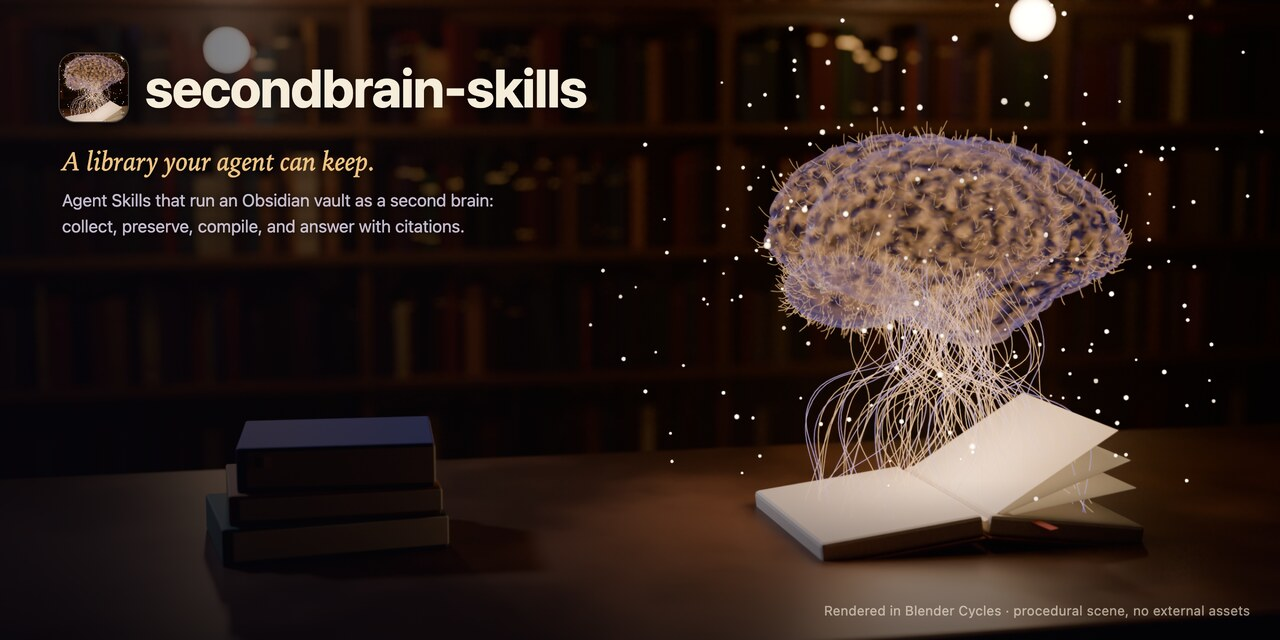
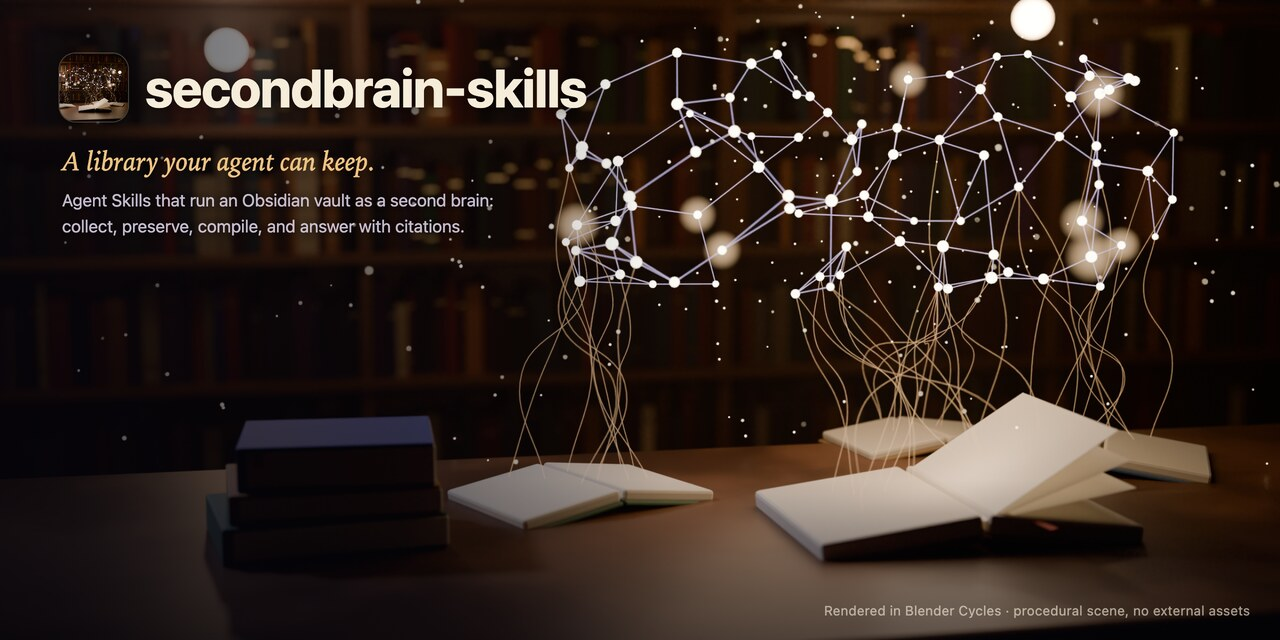
art: replace the brain with a constellation fed by several open books
The splash, social preview and icon now show threads of light rising from
four open books into a constellation of stars linked by thin lines, instead
of an anatomical brain. Unused brain helpers are removed from
scripts/art/library.py; ledger descriptions and README alt text follow.

Checked: python3 scripts/validate.py and claude plugin validate . --strict
pass; renders inspected visually.

diff --git a/scripts/art/library.py b/scripts/art/library.py
@@ -1,5 +1,7 @@
 """Procedural Blender scenes for secondbrain-skills art. No external assets.
 
+The splash: threads of light rise from several open books into a constellation of linked stars.
+
 Run:  blender -b -P scripts/art/library.py -- <scene> <out.png> [samples] [resolution %]
 Scenes: splash (README banner, 2400x1200), icon (1024 square); hero, icon_book, drop, archive,
 catalogue and reading are earlier studies kept for reuse.
@@ -577,128 +579,7 @@ def scene_reading():
 
 
 
-# ---------------------------------------------------------------- splash: a brain of light rising from a book
-def brain_shell(center, size, rnd):
-    """Brain in side profile: long axis along world x, hemispheres offset in y, plus a cerebellum."""
-    objs = []
-    tex = bpy.data.textures.new("gyri", "MARBLE")
-    tex.marble_type = "SHARPER"
-    tex.noise_scale = 0.03
-    tex.turbulence = 9.0
-    tex.noise_depth = 4
-    L, W, H = size.x / 2, size.y / 4, size.z / 2
-
-    def shape(v):
-        u = v.x  # -1 back .. +1 front
-        z = v.z
-        if z < 0:
-            z *= 0.55
-            if -0.35 < u < 0.55:  # temporal lobe
-                z -= 0.32 * math.cos((u - 0.1) / 0.45 * math.pi / 2) * (-v.z)
-        z *= 1.0 - 0.12 * max(0.0, u)
-        z += 0.10 * max(0.0, -u) * (1 + v.z) * 0.5
-        y = v.y * (1.0 - 0.10 * abs(u))
-        return Vector((u * L, y * W, z * H))
-
-    for side in (-1, 1):
-        bm = bmesh.new()
-        bmesh.ops.create_icosphere(bm, subdivisions=6, radius=1.0)
-        for v in bm.verts:
-            v.co = shape(v.co)
-        me = bpy.data.meshes.new(f"hemisphere{side}")
-        bm.to_mesh(me)
-        bm.free()
-        o = link_obj(f"hemisphere{side}", me)
-        o.location = (center.x, center.y + side * W * 1.04, center.z)
-        d = o.modifiers.new("gyri", "DISPLACE")
-        d.texture = tex
-        d.strength = size.x * 0.03
-        d.mid_level = 0.5
-        for poly in me.polygons:
-            poly.use_smooth = True
-        objs.append(o)
-    bm = bmesh.new()
-    bmesh.ops.create_icosphere(bm, subdivisions=5, radius=1.0)
-    for v in bm.verts:
-        v.co = Vector((v.co.x * L * 0.33, v.co.y * W * 1.7, v.co.z * H * 0.32))
-    me = bpy.data.meshes.new("cerebellum")
-    bm.to_mesh(me)
-    bm.free()
-    cb = link_obj("cerebellum", me)
-    cb.location = (center.x - L * 0.62, center.y, center.z - H * 0.42)
-    tex2 = bpy.data.textures.new("folia", "WOOD")
-    tex2.wood_type = "BANDNOISE"
-    tex2.noise_scale = 0.02
-    d = cb.modifiers.new("folia", "DISPLACE")
-    d.texture = tex2
-    d.strength = size.x * 0.01
-    for poly in me.polygons:
-        poly.use_smooth = True
-    objs.append(cb)
-    return objs
-
-
-def shell_material():
-    m = bpy.data.materials.new("shell")
-    m.use_nodes = True
-    nt = m.node_tree
-    out = nt.nodes["Material Output"]
-    p = nt.nodes["Principled BSDF"]
-    p.inputs["Base Color"].default_value = (0.03, 0.02, 0.035, 1)
-    p.inputs["Coat Weight"].default_value = 0.6
-    p.inputs["Roughness"].default_value = 0.35
-    geo = nt.nodes.new("ShaderNodeNewGeometry")
-    ramp = nt.nodes.new("ShaderNodeValToRGB")
-    ramp.color_ramp.elements[0].position = 0.50
-    ramp.color_ramp.elements[0].color = (0, 0, 0, 1)
-    ramp.color_ramp.elements[1].position = 0.56
-    ramp.color_ramp.elements[1].color = (1.0, 0.45, 0.12, 1)
-    nt.links.new(geo.outputs["Pointiness"], ramp.inputs["Fac"])
-    nt.links.new(ramp.outputs["Color"], p.inputs["Emission Color"])
-    p.inputs["Emission Strength"].default_value = 3.2
-    fres = nt.nodes.new("ShaderNodeLayerWeight")
-    fres.inputs["Blend"].default_value = 0.35
-    rim = nt.nodes.new("ShaderNodeEmission")
-    rim.inputs["Color"].default_value = (0.42, 0.30, 1.0, 1)
-    rim.inputs["Strength"].default_value = 0.8
-    mixr = nt.nodes.new("ShaderNodeMixShader")
-    nt.links.new(fres.outputs["Facing"], mixr.inputs[0])
-    nt.links.new(p.outputs[0], mixr.inputs[1])
-    nt.links.new(rim.outputs[0], mixr.inputs[2])
-    tr = nt.nodes.new("ShaderNodeBsdfTransparent")
-    mixa = nt.nodes.new("ShaderNodeMixShader")
-    mixa.inputs[0].default_value = 0.3
-    nt.links.new(tr.outputs[0], mixa.inputs[1])
-    nt.links.new(mixr.outputs[0], mixa.inputs[2])
-    nt.links.new(mixa.outputs[0], out.inputs["Surface"])
-    return m
-
-
-def filament_hair(obj, material, count=2600, length=0.05):
-    mod = obj.modifiers.new("filaments", "PARTICLE_SYSTEM")
-    ps = mod.particle_system.settings
-    ps.type = "HAIR"
-    ps.count = count
-    ps.hair_length = length
-    ps.use_advanced_hair = True
-    ps.normal_factor = 1.0
-    ps.factor_random = 0.6
-    ps.child_type = "INTERPOLATED"
-    ps.child_percent = 4
-    ps.rendered_child_count = 12
-    ps.child_length = 0.9
-    ps.kink = "WAVE"
-    ps.kink_amplitude = length * 0.25
-    ps.kink_frequency = 3.0
-    ps.roughness_endpoint = length * 0.3
-    ps.root_radius = 1.0
-    ps.tip_radius = 0.0
-    ps.radius_scale = 0.00035
-    obj.data.materials.append(material)
-    ps.material_slot = material.name
-    return ps
-
-
+# ---------------------------------------------------------------- splash: open books feeding a constellation of linked stars
 def splash(res=(2400, 1200), close=False):
     sc = reset()
     sc.render.resolution_x, sc.render.resolution_y = res
@@ -752,60 +633,113 @@ def splash(res=(2400, 1200), close=False):
         hw = 0.112
         loc = (bx + hw * math.cos(ry), by, top + 0.04 - hw * math.sin(ry))
         paper_sheet(f"lift{k}", loc, (0, ry, 0), (0.224, 0.31), lift)
-    # brain of light above the book
-    c = Vector((bx, by + 0.02, top + 0.40))
-    size = Vector((0.46, 0.34, 0.30))
-    shells = brain_shell(c, size, rnd)
-    sm = shell_material()
-    fil = mat("filament", (1, 0.7, 0.4), emit=(1.0, 0.55, 0.22), strength=2.2)
-    fpaths = []
-    for o in shells:
-        o.data.materials.append(sm)
-        dg = bpy.context.evaluated_depsgraph_get()
-        ev = o.evaluated_get(dg).to_mesh()
-        verts = [(o.matrix_world @ v.co, (o.matrix_world.to_3x3() @ v.normal).normalized()) for v in ev.vertices]
-        o.evaluated_get(dg).to_mesh_clear()
-        for co, n in rnd.sample(verts, 520):
-            l = rnd.uniform(0.004, 0.018)
-            side = Vector((rnd.gauss(0, 1), rnd.gauss(0, 1), rnd.gauss(0, 1))) * 0.25
-            a = co
-            b = co + (n + side) * l * 0.5
-            cpt = co + (n + side * 1.6 + Vector((0, 0, 0.35))) * l
-            fpaths.append([a, b, cpt])
-    curve_obj("filaments", fpaths, 0.00018, fil)
-    # streams of light rising from the pages into the brain
-    stream_m = mat("stream", (1, 0.7, 0.4), emit=(1.0, 0.56, 0.24), strength=2.6)
-    violet_m = mat("stream_v", (0.7, 0.6, 1), emit=(0.50, 0.36, 1.0), strength=2.4)
-    paths_g, paths_v = [], []
-    for k in range(110):
-        sx = bx + rnd.uniform(-0.2, 0.2)
-        sy = by + rnd.uniform(-0.14, 0.14)
-        p0 = Vector((sx, sy, top + 0.04))
-        ang = rnd.uniform(0, math.tau)
-        rr = rnd.uniform(0.0, 1.0) ** 0.5
-        p3 = c + Vector((math.cos(ang) * size.x * 0.22 * rr, math.sin(ang) * size.y * 0.2 * rr, -size.z * rnd.uniform(0.05, 0.25)))
-        twist = Vector((rnd.uniform(-1, 1), rnd.uniform(-1, 1), 0)) * 0.06
-        p1 = p0.lerp(p3, 0.33) + twist + Vector((0, 0, 0.02))
-        p2 = p0.lerp(p3, 0.66) - twist * 0.6
-        (paths_v if rnd.random() < 0.22 else paths_g).append([p0, p1, p2, p3])
-    curve_obj("streams", paths_g, 0.00022, stream_m)
-    curve_obj("streams_v", paths_v, 0.00022, violet_m)
-    # sparks: tiny nodes around the brain
-    spark = mat("spark", (1, 0.9, 0.7), emit=(1.0, 0.8, 0.5), strength=40)
-    bm = bmesh.new()
+    # more open books around the first one, each a source the constellation draws from
+    def open_book(x, y, rz, s, cover_color, name):
+        cm = mat(f"cover_{name}", cover_color, rough=0.55, bump=(420, 0.25))
+        R = lambda dx, dy: (x + dx * math.cos(rz) - dy * math.sin(rz), y + dx * math.sin(rz) + dy * math.cos(rz))
+        for side in (-1, 1):
+            ang = side * math.radians(8)
+            px, py = R(side * 0.122 * s, 0)
+            box(f"{name}_board{side}", (0.24 * s, 0.34 * s, 0.006), (px, py, top + 0.004), cm, bevel=0.002, rot=(0, ang, rz))
+            px, py = R(side * 0.118 * s, 0)
+            box(f"{name}_pages{side}", (0.23 * s, 0.325 * s, 0.026 * s), (px, py, top + 0.006 + 0.013 * s), paper, bevel=0.005, rot=(0, ang, rz))
+        return Vector((x, y, top + 0.02 + 0.026 * s)), s
+    sources = [(Vector((bx, by, top + 0.04)), 1.0)]
+    sources.append(open_book(bx + 0.42, by + 0.34, math.radians(-28), 0.74, (0.08, 0.16, 0.30), "bookB"))
+    sources.append(open_book(bx - 0.48, by + 0.26, math.radians(22), 0.72, (0.10, 0.22, 0.12), "bookC"))
+    sources.append(open_book(bx + 0.18, by + 0.55, math.radians(6), 0.62, (0.36, 0.22, 0.08), "bookD"))
+    # the constellation: stars linked by their nearest neighbours, loosely a two-lobed cloud
+    c = Vector((bx + 0.0, by + 0.30, top + 0.46))
+    size = Vector((0.52, 0.30, 0.30))
+    pts = brain_points(c, size, 90, rnd)
+    pts = [Vector((p.x, c.y + (p.y - c.y) * 0.7, p.z)) for p in pts]
+    edges = set()
+    for i, p in enumerate(pts):
+        for j in sorted(range(len(pts)), key=lambda j: (pts[j] - p).length)[1:4]:
+            if (pts[j] - p).length < 0.16:
+                edges.add(tuple(sorted((i, j))))
+    degree = [0] * len(pts)
+    for i, j in edges:
+        degree[i] += 1
+        degree[j] += 1
+    link_m = mat("link", (0.8, 0.7, 1), emit=(0.58, 0.46, 1.0), strength=2.6)
+    curve_obj("links", [[pts[i], pts[j]] for i, j in edges], 0.0005, link_m)
     import mathutils
-    for k in range(200):
-        v = Vector((rnd.gauss(0, 1), rnd.gauss(0, 1), rnd.gauss(0, 1))).normalized()
-        r = rnd.uniform(1.0, 1.9)
-        q = c + Vector((v.x * size.x * 0.6 * r, v.y * size.y * 0.6 * r, v.z * size.z * 0.9 * r))
-        bmesh.ops.create_icosphere(bm, subdivisions=1, radius=rnd.uniform(0.0008, 0.0025), matrix=mathutils.Matrix.Translation(q))
-    me = bpy.data.meshes.new("sparks")
+    star_m = mat("star", (1, 0.92, 0.8), emit=(1.0, 0.84, 0.60), strength=22)
+    halo_m = mat("halo", (1, 0.8, 0.5), emit=(1.0, 0.66, 0.32), strength=4)
+    bm = bmesh.new()
+    bh = bmesh.new()
+    for i, p in enumerate(pts):
+        r = 0.0022 + 0.0011 * degree[i] + rnd.uniform(0, 0.0015)
+        bmesh.ops.create_icosphere(bm, subdivisions=2, radius=r, matrix=mathutils.Matrix.Translation(p))
+        if degree[i] >= 6 or rnd.random() < 0.06:
+            bmesh.ops.create_icosphere(bh, subdivisions=3, radius=r * 5.0, matrix=mathutils.Matrix.Translation(p))
+    for k in range(160):  # faint unlinked stars give the cloud depth
+        v = Vector((rnd.gauss(0, 1), rnd.gauss(0, 1), rnd.gauss(0, 1)))
+        q = c + Vector((v.x * size.x * 0.55, v.y * size.y * 0.45, v.z * size.z * 0.5))
+        bmesh.ops.create_icosphere(bm, subdivisions=1, radius=rnd.uniform(0.0007, 0.0016), matrix=mathutils.Matrix.Translation(q))
+    for nm, bmx, m in (("stars", bm, star_m), ("halos", bh, halo_m)):
+        me = bpy.data.meshes.new(nm)
+        bmx.to_mesh(me)
+        bmx.free()
+        o = link_obj(nm, me)
+        o.data.materials.append(m)
+        for poly in me.polygons:
+            poly.use_smooth = True
+    # soft halos: emission that fades by facing so they read as glow, not spheres
+    nt = halo_m.node_tree
+    pr = nt.nodes["Principled BSDF"]
+    lw = nt.nodes.new("ShaderNodeLayerWeight")
+    lw.inputs["Blend"].default_value = 0.5
+    em = nt.nodes.new("ShaderNodeEmission")
+    em.inputs["Color"].default_value = (1.0, 0.62, 0.3, 1)
+    inv = nt.nodes.new("ShaderNodeMath")
+    inv.operation = "POWER"
+    inv.inputs[1].default_value = 3.0
+    oneminus = nt.nodes.new("ShaderNodeMath")
+    oneminus.operation = "SUBTRACT"
+    oneminus.inputs[0].default_value = 1.0
+    nt.links.new(lw.outputs["Facing"], oneminus.inputs[1])
+    nt.links.new(oneminus.outputs[0], inv.inputs[0])  # 1 - facing: 0 at the silhouette, 1 at the centre
+    inv.inputs[1].default_value = 4.0
+    mul = nt.nodes.new("ShaderNodeMath")
+    mul.operation = "MULTIPLY"
+    mul.inputs[1].default_value = 0.9
+    nt.links.new(inv.outputs[0], mul.inputs[0])
+    nt.links.new(mul.outputs[0], em.inputs["Strength"])
+    tr = nt.nodes.new("ShaderNodeBsdfTransparent")
+    add = nt.nodes.new("ShaderNodeAddShader")
+    nt.links.new(tr.outputs[0], add.inputs[0])
+    nt.links.new(em.outputs[0], add.inputs[1])
+    nt.links.new(add.outputs[0], nt.nodes["Material Output"].inputs["Surface"])
+    for o in bpy.data.objects:
+        if o.name == "halos":
+            o.visible_shadow = False
+    # threads of light rising from every open book into the lowest stars
+    stream_m = mat("stream", (1, 0.7, 0.4), emit=(1.0, 0.56, 0.24), strength=2.2)
+    low = sorted(range(len(pts)), key=lambda i: pts[i].z)[:30]
+    paths = []
+    for src, s in sources:
+        near = sorted(range(len(pts)), key=lambda i: abs(pts[i].x - src.x) + abs(pts[i].y - src.y) * 0.5 + (pts[i].z - c.z) * 0.8)[:10]
+        for k in range(int(14 * s)):
+            p0 = src + Vector((rnd.uniform(-0.16, 0.16) * s, rnd.uniform(-0.10, 0.10) * s, 0.0))
+            p3 = pts[rnd.choice(near)]
+            twist = Vector((rnd.uniform(-1, 1), rnd.uniform(-1, 1), 0)) * 0.05
+            p1 = p0.lerp(p3, 0.3) + twist + Vector((0, 0, 0.04))
+            p2 = p0.lerp(p3, 0.7) - twist * 0.5
+            paths.append([p0, p1, p2, p3])
+    curve_obj("streams", paths, 0.0002, stream_m)
+    # dust: faint motes drifting through the scene
+    spark = mat("spark", (1, 0.9, 0.7), emit=(1.0, 0.8, 0.5), strength=14)
+    bm = bmesh.new()
+    for k in range(260):
+        q = c + Vector((rnd.uniform(-1.3, 1.3), rnd.uniform(-0.6, 0.8), rnd.uniform(-0.7, 0.6)))
+        bmesh.ops.create_icosphere(bm, subdivisions=1, radius=rnd.uniform(0.0006, 0.0018), matrix=mathutils.Matrix.Translation(q))
+    me = bpy.data.meshes.new("dust")
     bm.to_mesh(me)
     bm.free()
-    so = link_obj("sparks", me)
-    so.data.materials.append(spark)
-    # glow from the brain lights the desk and pages
-    light("POINT", (c.x, c.y, c.z - 0.12), 14, (1.0, 0.60, 0.30), size=0.2)
+    link_obj("dust", me).data.materials.append(spark)
+    light("POINT", (c.x, c.y, c.z - 0.1), 18, (1.0, 0.66, 0.38), size=0.4)
     light("POINT", (bx, by, top + 0.15), 1.5, (1.0, 0.7, 0.4), size=0.1)
     # high window: cold moonlight shafts through dust
     sp = light("SPOT", (-2.6, 2.4, 3.8), 800, (0.55, 0.66, 1.0), size=0.25, spot=math.radians(18))
@@ -820,8 +754,8 @@ def splash(res=(2400, 1200), close=False):
     volume_box((7, 6, 4.2), (0, 0.8, 2.1), density=float(__import__("os").environ.get("FOG", "0.006")), color=(1.0, 0.92, 0.85))
     sc.view_settings.look = "AgX - Punchy"
     if close:
-        cam_loc = Vector((bx - 0.25, by - 1.25, top + 0.42))
-        camera(cam_loc, (bx, by, top + 0.27), lens=50, dof=(cam_loc - c).length, fstop=2.0)
+        cam_loc = Vector((bx - 0.2, by - 1.75, top + 0.40))
+        camera(cam_loc, (bx + 0.02, by + 0.2, top + 0.30), lens=50, dof=(cam_loc - c).length, fstop=2.2)
         return sc
     cam_loc = Vector((bx - 0.95, by - 2.35, top + 0.62))
     camera(cam_loc, (bx - 0.40, by + 0.2, top + 0.28), lens=50, dof=(cam_loc - c).length, fstop=1.4)

diff --git a/README.ko.md b/README.ko.md
@@ -1,5 +1,5 @@
 <p align="center">
-  <img src="assets/brand/splash.jpg" alt="어두운 도서관 책상 위, 펼친 책의 페이지에서 빛의 실이 피어올라 빛나는 뇌를 이루는 Blender 렌더" width="100%">
+  <img src="assets/brand/splash.jpg" alt="어두운 도서관 책상 위, 펼친 여러 권의 책에서 빛의 실이 피어올라 서로 이어진 별자리를 이루는 Blender 렌더" width="100%">
 </p>
 
 <p align="center">

diff --git a/README.md b/README.md
@@ -1,5 +1,5 @@
 <p align="center">
-  <img src="assets/brand/splash.jpg" alt="A Blender render: on a reading desk in a dark library, threads of light rise from the pages of an open book into a glowing brain" width="100%">
+  <img src="assets/brand/splash.jpg" alt="A Blender render: on a reading desk in a dark library, threads of light rise from several open books and join a constellation of linked stars" width="100%">
 </p>
 
 <p align="center">
